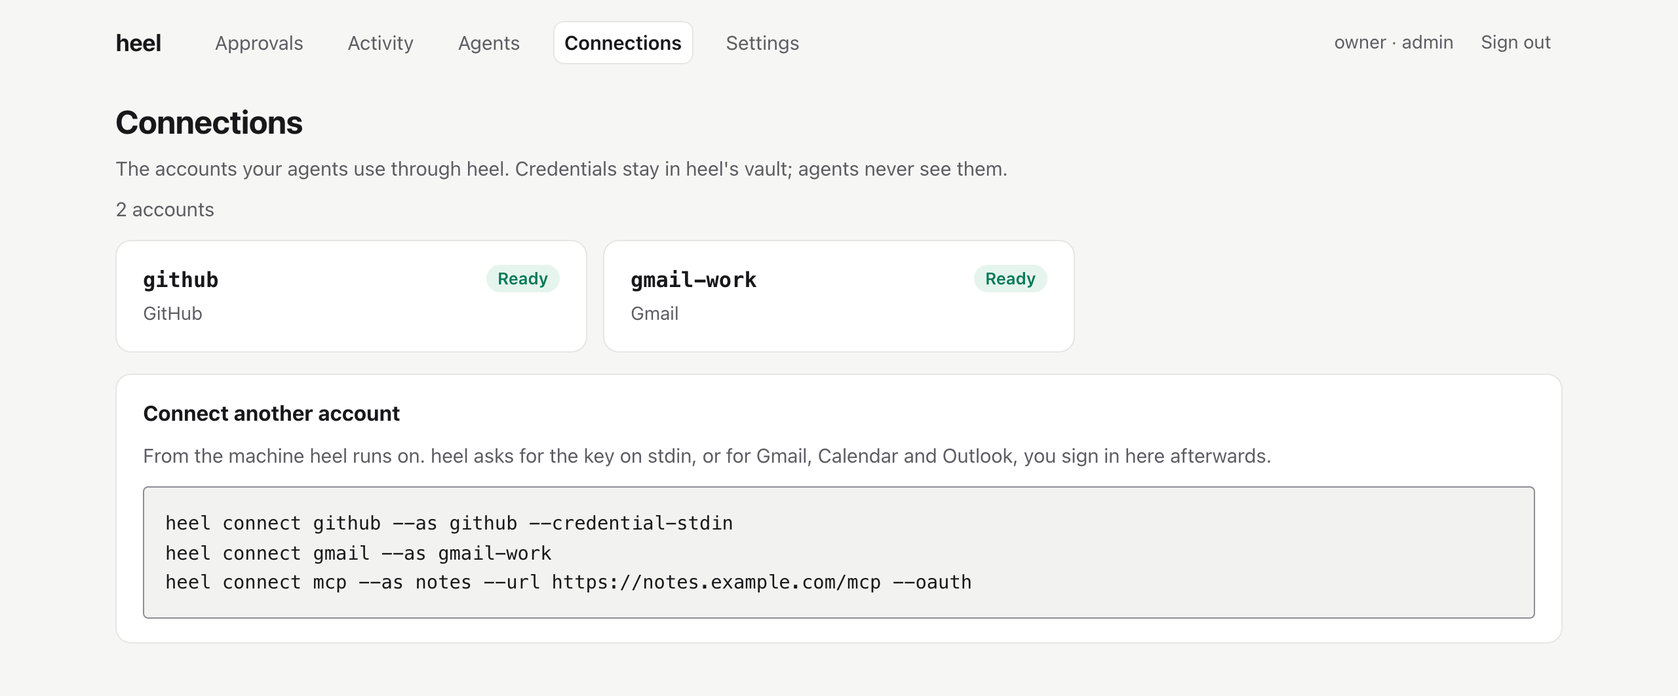
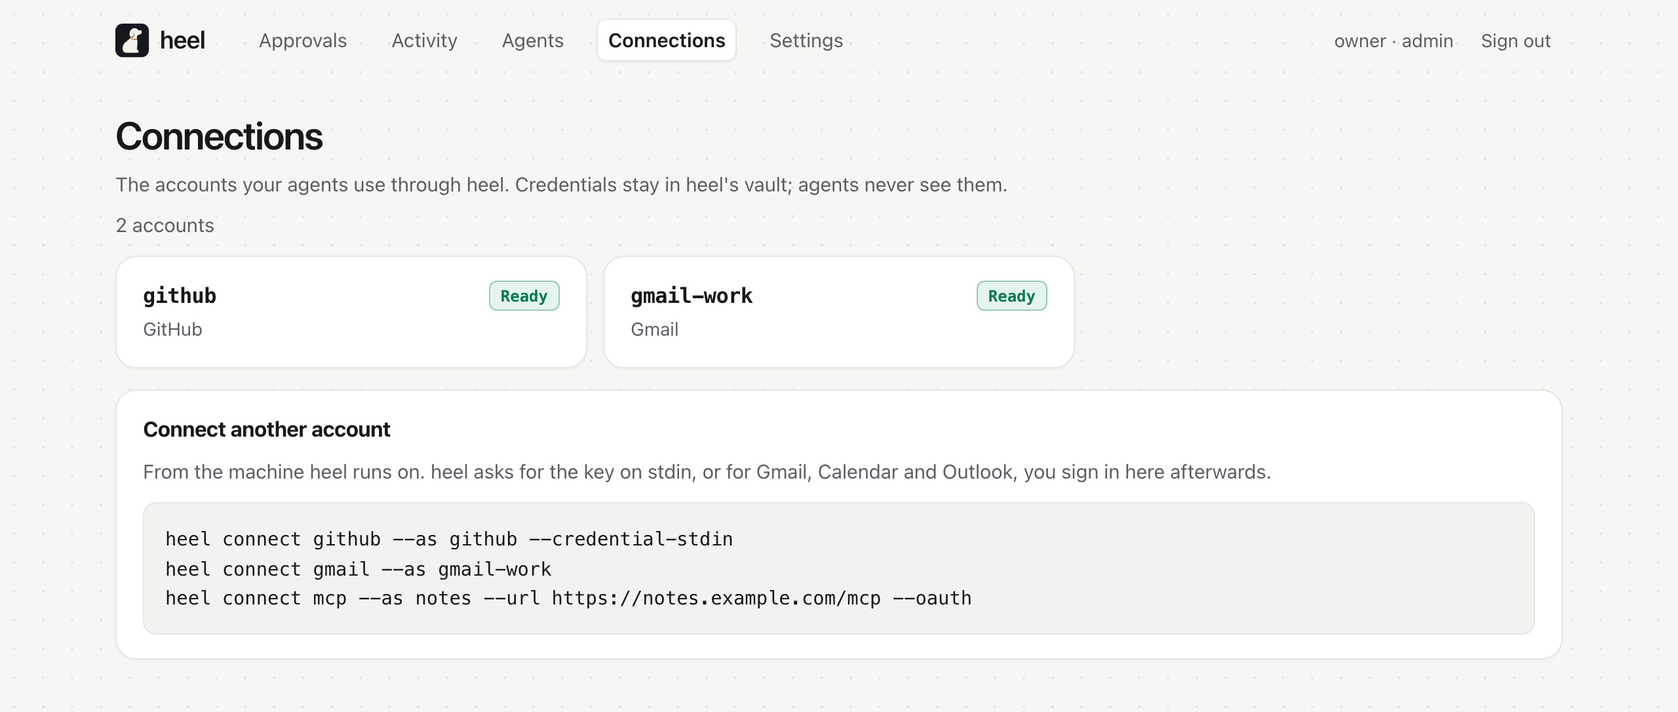
feat: heel's pages look like useheel.dev, and approve and deny never cover the page
Every page of the human plane takes the site's look: the dot grid behind
it, the logo beside the wordmark, pill buttons, status as tags in mono
with a tinted edge, softer cards and quieter dividers. Sign-in uses the
site's dog, written in the word heel, faint behind the wordmark.

The approve/deny bar was pinned to the bottom of the screen and sat on
top of the email or merge being decided. It's now part of the page,
right after what will run and before the details.

The docs screenshots are regenerated from the new pages, and the
README's approval image is two of them in phone frames, light and dark.

diff --git a/src/web/ui/theme.ts b/src/web/ui/theme.ts
@@ -36,6 +36,8 @@ const LIGHT = {
   "add-bg": "#e3f4e7",
   "remove-bg": "#fbe5e3",
   focus: "#0b57d0",
+  /** The dot grid behind every page, as on useheel.dev. */
+  dot: "rgb(0 0 0 / .07)",
 } as const;
 
 /** Every theme defines every colour the stylesheet uses. */
@@ -66,6 +68,7 @@ const DARK: Palette = {
   "add-bg": "#13321c",
   "remove-bg": "#3d1714",
   focus: "#ffd166",
+  dot: "rgb(255 255 255 / .06)",
 };
 
 function variables(palette: Palette): string {
@@ -77,18 +80,19 @@ function variables(palette: Palette): string {
 const RULES = `
 *,*::before,*::after{box-sizing:border-box}
 html{color-scheme:light dark}
-body{margin:0;background:var(--page);color:var(--text);font:15px/1.55 Inter,ui-sans-serif,system-ui,-apple-system,"Segoe UI",Roboto,sans-serif;-webkit-font-smoothing:antialiased}
+body{margin:0;background-color:var(--page);background-image:radial-gradient(circle,var(--dot) 1px,transparent 1px);background-size:22px 22px;color:var(--text);font:15px/1.55 Inter,ui-sans-serif,system-ui,-apple-system,"Segoe UI",Roboto,sans-serif;-webkit-font-smoothing:antialiased}
 a{color:var(--link);text-underline-offset:.2em}
 :focus-visible{outline:3px solid var(--focus);outline-offset:2px}
 .skip{position:absolute;left:-9999px;top:0;padding:.5rem 1rem;background:var(--bg)}
 .skip:focus{left:1rem;top:1rem;z-index:10}
-.site{display:flex;flex-wrap:wrap;gap:.75rem 2rem;align-items:center;max-width:72rem;margin:0 auto;padding:1rem 1.5rem .25rem}
-.site .brand{font-weight:700;font-size:1.1rem;letter-spacing:-.01em;color:var(--text);text-decoration:none}
+.site{display:flex;flex-wrap:wrap;gap:.75rem 2rem;align-items:center;max-width:72rem;margin:0 auto;padding:.9rem 1.5rem}
+.site .brand{display:inline-flex;align-items:center;gap:.5rem;font-weight:600;font-size:1.15rem;letter-spacing:-.02em;color:var(--text);text-decoration:none}
+.site .brand svg{width:1.6rem;height:1.6rem;flex:none}
 .site nav{max-width:100%}
 .site nav ul{display:flex;flex-wrap:wrap;gap:.25rem 1rem;list-style:none;margin:0;padding:0}
 .site nav a{text-decoration:none;padding:.3rem .55rem;border-radius:8px;white-space:nowrap;display:inline-block;color:var(--muted);font-size:.93rem}
 .site nav a:hover{color:var(--text);background:var(--surface)}
-.site nav a[aria-current="page"]{color:var(--text);font-weight:600;background:var(--bg);box-shadow:inset 0 0 0 1px var(--line)}
+.site nav a[aria-current="page"]{color:var(--text);font-weight:600;background:var(--bg);box-shadow:inset 0 0 0 1px var(--line),0 1px 2px rgb(0 0 0 / .05)}
 .site .account{margin-left:auto;display:flex;align-items:center;gap:.75rem}
 .site .who{color:var(--muted);font-size:.88rem}
 .site .sign-out{font:inherit;font-size:.88rem;color:var(--muted);background:none;border:0;padding:.3rem .55rem;border-radius:8px;cursor:pointer}
@@ -98,25 +102,25 @@ a{color:var(--link);text-underline-offset:.2em}
 .subnav a{display:inline-block;padding:.3rem .7rem;border-radius:7px;color:var(--muted);text-decoration:none;font-size:.9rem;white-space:nowrap}
 .subnav a[aria-current="page"]{background:var(--bg);color:var(--text);font-weight:600;box-shadow:0 1px 2px rgb(0 0 0 / .08)}
 main{max-width:72rem;margin:0 auto;padding:1.5rem}
-h1{font-size:1.55rem;line-height:1.3;letter-spacing:-.015em;margin:0 0 .5rem}
-h2{font-size:1.2rem;margin:1.5rem 0 .5rem}
+h1{font-size:1.85rem;line-height:1.2;letter-spacing:-.04em;font-weight:600;margin:0 0 .5rem}
+h2{font-size:1.2rem;letter-spacing:-.02em;margin:1.5rem 0 .5rem}
 h3{font-size:1rem;margin:1rem 0 .5rem}
 p{margin:.5rem 0}
 .muted{color:var(--muted)}
 .banner{padding:.7rem 1.5rem;background:var(--banner-bg);color:var(--banner-text);font-weight:600;text-align:center}
-.notice{border:1px solid var(--line);padding:.75rem 1rem;margin:1rem 0;background:var(--bg);border-radius:10px}
+.notice{border:1px solid var(--line);padding:.75rem 1rem;margin:1rem 0;background:var(--bg);border-radius:14px}
 .notice[data-tone="error"]{background:var(--danger-bg);border-color:transparent}
 .notice[data-tone="warn"]{background:var(--warn-bg);border-color:transparent}
 .notice[data-tone="ok"]{background:var(--ok-bg);border-color:transparent}
 .notice[data-tone="info"]{background:var(--info-bg);border-color:transparent}
 .notice > :first-child{margin-top:0}
 .notice > :last-child{margin-bottom:0}
-.card{border:1px solid var(--line);border-radius:12px;padding:1.1rem 1.25rem;margin:1rem 0;background:var(--bg)}
-.badge{display:inline-block;padding:.05rem .55rem;border-radius:999px;font-size:.8rem;font-weight:600;white-space:nowrap;background:var(--surface)}
-.badge[data-tone="ok"]{color:var(--ok);background:var(--ok-bg)}
-.badge[data-tone="error"]{color:var(--danger);background:var(--danger-bg)}
-.badge[data-tone="warn"]{color:var(--warn);background:var(--warn-bg)}
-.badge[data-tone="info"]{color:var(--info);background:var(--info-bg)}
+.card{border:1px solid var(--line);border-radius:16px;padding:1.1rem 1.25rem;margin:1rem 0;background:var(--bg);box-shadow:0 1px 2px rgb(0 0 0 / .04)}
+.badge{display:inline-block;padding:.1rem .5rem;border-radius:6px;border:1px solid var(--line);font:600 .75rem/1.5 ui-monospace,"Geist Mono",SFMono-Regular,Menlo,Consolas,monospace;white-space:nowrap;background:var(--surface)}
+.badge[data-tone="ok"]{color:var(--ok);background:var(--ok-bg);border-color:color-mix(in srgb,var(--ok) 35%,transparent)}
+.badge[data-tone="error"]{color:var(--danger);background:var(--danger-bg);border-color:color-mix(in srgb,var(--danger) 35%,transparent)}
+.badge[data-tone="warn"]{color:var(--warn);background:var(--warn-bg);border-color:color-mix(in srgb,var(--warn) 35%,transparent)}
+.badge[data-tone="info"]{color:var(--info);background:var(--info-bg);border-color:color-mix(in srgb,var(--info) 35%,transparent)}
 .badge[data-tone="muted"]{color:var(--muted)}
 dl.facts{display:grid;grid-template-columns:minmax(8rem,max-content) 1fr;gap:.35rem 1.5rem;margin:0}
 dl.facts dt{color:var(--muted);font-weight:600}
@@ -127,21 +131,21 @@ figure.reason blockquote{margin:.25rem 0 0;overflow-wrap:anywhere}
 ul.hints{list-style:none;padding:0;margin:.5rem 0 0;display:grid;gap:.45rem}
 ul.hints li{display:flex;align-items:baseline;gap:.6rem}
 pre{overflow-x:auto;max-width:100%}
-code,pre,.mono{font-family:ui-monospace,SFMono-Regular,Menlo,Consolas,monospace;font-size:.9rem}
-pre.args,pre.body{margin:0;padding:1rem;background:var(--surface);border:1px solid var(--border);border-radius:4px;white-space:pre-wrap;overflow-wrap:anywhere;word-break:break-word}
-.table-scroll{overflow-x:auto;max-width:100%;border:1px solid var(--line);border-radius:12px;margin:.75rem 0;background:linear-gradient(to right,var(--bg) 30%,transparent) left/2rem 100% no-repeat local,linear-gradient(to left,var(--bg) 30%,transparent) right/2rem 100% no-repeat local,radial-gradient(farthest-side at 0 50%,rgb(0 0 0 / .18),transparent) left/.75rem 100% no-repeat scroll,radial-gradient(farthest-side at 100% 50%,rgb(0 0 0 / .18),transparent) right/.75rem 100% no-repeat scroll}
+code,pre,.mono{font-family:ui-monospace,"Geist Mono",SFMono-Regular,Menlo,Consolas,monospace;font-size:.9rem}
+pre.args,pre.body{margin:0;padding:1rem;background:var(--surface);border:1px solid var(--line);border-radius:10px;white-space:pre-wrap;overflow-wrap:anywhere;word-break:break-word}
+.table-scroll{overflow-x:auto;max-width:100%;border:1px solid var(--line);border-radius:14px;margin:.75rem 0;background:linear-gradient(to right,var(--bg) 30%,transparent) left/2rem 100% no-repeat local,linear-gradient(to left,var(--bg) 30%,transparent) right/2rem 100% no-repeat local,radial-gradient(farthest-side at 0 50%,rgb(0 0 0 / .18),transparent) left/.75rem 100% no-repeat scroll,radial-gradient(farthest-side at 100% 50%,rgb(0 0 0 / .18),transparent) right/.75rem 100% no-repeat scroll}
 table.data{width:100%;border-collapse:collapse;margin:0;background:var(--bg)}
 table.data caption{text-align:left;font-weight:600;padding:.6rem .85rem;color:var(--muted);font-size:.85rem;background:var(--bg)}
 table.data th,table.data td{text-align:left;vertical-align:top;padding:.6rem .85rem;border-bottom:1px solid var(--line);overflow-wrap:break-word}
 table.data tbody tr:last-child > *{border-bottom:0}
 table.data thead th{border-bottom:1px solid var(--line);color:var(--muted);font-size:.8rem;font-weight:600;letter-spacing:.02em;background:var(--surface)}
-.btn{font:inherit;font-size:.93rem;font-weight:600;white-space:nowrap;padding:.5rem 1rem;border-radius:9px;border:1px solid var(--accent);cursor:pointer;min-height:2.5rem}
+.btn{font:inherit;font-size:.93rem;font-weight:600;white-space:nowrap;padding:.5rem 1.15rem;border-radius:999px;border:1px solid var(--accent);cursor:pointer;min-height:2.5rem}
 .btn-primary{background:var(--accent);color:var(--accent-text)}
-.btn-secondary{background:var(--bg);color:var(--text);border-color:var(--border)}
+.btn-secondary{background:var(--bg);color:var(--text);border-color:var(--border);box-shadow:0 1px 2px rgb(0 0 0 / .06)}
 .btn-danger{background:var(--bg);border-color:var(--danger);color:var(--danger)}
 .btn:disabled{cursor:not-allowed;opacity:.55}
 a.btn{display:inline-block;text-decoration:none}
-form.filters{display:flex;flex-wrap:wrap;gap:.5rem .75rem;align-items:center;margin:1rem 0;padding:.75rem;background:var(--bg);border:1px solid var(--line);border-radius:12px}
+form.filters{display:flex;flex-wrap:wrap;gap:.5rem .75rem;align-items:center;margin:1rem 0;padding:.75rem;background:var(--bg);border:1px solid var(--line);border-radius:16px}
 form.filters label{color:var(--muted);font-size:.88rem}
 .actions{display:flex;flex-wrap:wrap;gap:.75rem;align-items:center;margin:1rem 0}
 fieldset{border:1px solid var(--line);border-radius:10px;padding:.75rem 1rem;margin:1rem 0}
@@ -156,47 +160,45 @@ textarea{width:100%;min-height:5rem}
 .paste-form .btn{justify-self:start}
 .steps{padding-left:1.25rem}
 .steps > li{margin:0 0 1.25rem}
-.diff{margin:0;padding:0;list-style:none;border:1px solid var(--border);border-radius:4px;overflow:hidden}
+.diff{margin:0;padding:0;list-style:none;border:1px solid var(--line);border-radius:10px;overflow:hidden}
 .diff li{padding:0 .75rem;white-space:pre-wrap;overflow-wrap:anywhere;font-family:ui-monospace,SFMono-Regular,Menlo,Consolas,monospace;font-size:.9rem}
 .diff li[data-op="add"]{background:var(--add-bg)}
 .diff li[data-op="remove"]{background:var(--remove-bg)}
 .diff .sign{display:inline-block;width:1.25rem;font-weight:700}
-body:has(.ap){background:var(--page)}
 .ap{max-width:44rem;margin:0 auto}
-.ap .card{background:var(--bg);border-radius:12px;margin:.75rem 0}
-.ap-head{padding:1.1rem 1.25rem}
-.ap-meta{display:flex;flex-wrap:wrap;align-items:center;gap:.25rem .75rem;font-size:.9rem}
+.ap .card{background:var(--bg);border-radius:16px;margin:.75rem 0}
+.ap-head{padding:1.25rem 1.4rem;box-shadow:0 24px 60px -32px rgb(0 0 0 / .35)}
+.ap-meta{display:flex;flex-wrap:wrap;align-items:center;gap:.25rem .75rem;font-size:.9rem;color:var(--muted)}
 .ap-meta .badge{margin-left:auto}
-.ap-agent{font-weight:600}
-.ap-title{font-size:1.35rem;line-height:1.35;margin:.6rem 0 0;letter-spacing:-.01em;overflow-wrap:anywhere}
-.ap-title mark{background:var(--surface);color:inherit;border-radius:6px;padding:0 .3rem}
+.ap-agent{font-weight:600;color:var(--text)}
+.ap-title{font-size:1.45rem;line-height:1.35;margin:.7rem 0 0;letter-spacing:-.03em;font-weight:600;overflow-wrap:anywhere}
+.ap-title mark{background:var(--surface);color:inherit;border-radius:8px;padding:0 .35rem;box-shadow:inset 0 0 0 1px var(--line)}
 .ap .reason{margin:.9rem 0 0}
 .ap-facts{display:grid;grid-template-columns:repeat(auto-fit,minmax(9rem,1fr));gap:.5rem;list-style:none;margin:1rem 0 0;padding:0}
-.ap-fact{background:var(--surface);border-radius:8px;padding:.5rem .7rem;display:flex;flex-direction:column;min-width:0}
-.ap-fact span{color:var(--muted);font-size:.8rem}
+.ap-fact{background:var(--surface);border-radius:10px;padding:.55rem .75rem;display:flex;flex-direction:column;min-width:0}
+.ap-fact span{color:var(--muted);font:.72rem/1.6 ui-monospace,"Geist Mono",SFMono-Regular,Menlo,Consolas,monospace}
 .ap-fact strong{font-weight:600;font-size:.95rem;overflow-wrap:anywhere}
 .ap-card-head{display:flex;justify-content:space-between;align-items:baseline;gap:1rem;margin-bottom:.25rem}
 .ap-card-head h2{font-size:1rem;margin:0}
-.ap-card-head .muted{font-size:.85rem}
-.ap-row{display:grid;grid-template-columns:minmax(5.5rem,max-content) minmax(0,1fr);gap:.75rem;padding:.6rem 0;border-top:1px solid var(--border);align-items:start}
+.ap-card-head .muted{font:.75rem ui-monospace,"Geist Mono",SFMono-Regular,Menlo,Consolas,monospace}
+.ap-row{display:grid;grid-template-columns:minmax(5.5rem,max-content) minmax(0,1fr);gap:.75rem;padding:.6rem 0;border-top:1px solid var(--line);align-items:start}
 .ap-card-head + .ap-row{border-top:0}
 .ap-key{color:var(--muted);font-size:.9rem;overflow-wrap:anywhere}
 .ap-row pre.body{max-height:16rem;overflow:auto}
 .ap-domains,.ap-addresses{list-style:none;margin:0;padding:0;display:grid;gap:.35rem}
 .ap-addresses{margin-top:.4rem;font-size:.9rem}
-.ap-chip{display:inline-block;background:var(--surface);border-radius:6px;padding:0 .45rem;font-family:ui-monospace,SFMono-Regular,Menlo,Consolas,monospace;font-size:.9rem;overflow-wrap:anywhere}
+.ap-chip{display:inline-block;background:var(--surface);border-radius:6px;padding:0 .45rem;font-family:ui-monospace,"Geist Mono",SFMono-Regular,Menlo,Consolas,monospace;font-size:.9rem;overflow-wrap:anywhere}
 .ap-chip.is-outside{box-shadow:inset 0 0 0 1px var(--warn)}
 .ap-outside{color:var(--warn);font-size:.8rem;font-weight:600}
 .ap-fold summary,.ap-details summary,.ap-more summary{cursor:pointer}
-.ap-details details + details{border-top:1px solid var(--border);margin-top:.75rem;padding-top:.75rem}
+.ap-details details + details{border-top:1px solid var(--line);margin-top:.75rem;padding-top:.75rem}
 .ap-details summary{font-weight:600}
 .ap-details dl.facts{margin-top:.75rem}
 .ap-details pre.args{margin-top:.5rem}
-.ap-decide{position:sticky;bottom:0;margin:.75rem 0 1rem;padding:.75rem;background:var(--bg);border:1px solid var(--border);border-radius:12px;box-shadow:0 10px 30px -18px rgb(0 0 0 / .45)}
-.ap-decide:has(.ap-more[open]){position:static}
+.ap-decide{margin:.75rem 0;padding:.75rem;background:var(--bg);border:1px solid var(--line);border-radius:16px;box-shadow:0 1px 2px rgb(0 0 0 / .04)}
 .ap-bar{display:flex;flex-wrap:wrap;align-items:center;gap:.5rem .75rem}
 .ap-bar [data-heel-ceremony="deny"]{order:-1;background:transparent;color:var(--danger)}
-.ap .btn{border-radius:9px}
+.ap .btn{border-radius:999px}
 .ap-bar [data-heel-ceremony="approve-once"]{order:2}
 .ap-note{flex:1;margin:0;color:var(--muted);font-size:.85rem;text-align:center;min-width:10rem}
 .ap-more{margin-top:.5rem}
@@ -228,8 +230,8 @@ body:has(.ap){background:var(--page)}
 .req-title{font-size:1.1rem;line-height:1.4;margin:.5rem 0 0;font-weight:600;overflow-wrap:anywhere}
 .req-title a{color:var(--text);text-decoration:none}
 .req-title a:hover{text-decoration:underline}
-.req-title mark{background:var(--surface);color:inherit;border-radius:6px;padding:0 .3rem}
-.req[data-status="pending"]{border-color:var(--border)}
+.req-title mark{background:var(--surface);color:inherit;border-radius:8px;padding:0 .35rem;box-shadow:inset 0 0 0 1px var(--line)}
+.req[data-status="pending"]{border-color:var(--line)}
 .req-reason{margin:.5rem 0 0;padding-left:.75rem;border-left:2px solid var(--line)}
 .req-foot{margin:.6rem 0 0;font-size:.85rem}
 .req-count{margin:0}
@@ -271,13 +273,10 @@ body:has(.ap){background:var(--page)}
 @media (max-width:22rem){.site nav ul{margin:0 -.25rem}.site nav a{font-size:.78rem;padding:.35rem .25rem}}
 .story{border-top:4px solid var(--border);margin-top:2rem;padding-top:1rem}
 .visually-hidden{position:absolute;width:1px;height:1px;margin:-1px;padding:0;overflow:hidden;clip:rect(0 0 0 0);white-space:nowrap;border:0}
-body:has(.auth){background-color:var(--page);background-image:radial-gradient(circle,rgb(0 0 0 / .07) 1px,transparent 1px);background-size:22px 22px}
-:root[data-theme="dark"] body:has(.auth){background-image:radial-gradient(circle,rgb(255 255 255 / .06) 1px,transparent 1px)}
-@media (prefers-color-scheme: dark){:root:not([data-theme="light"]) body:has(.auth){background-image:radial-gradient(circle,rgb(255 255 255 / .06) 1px,transparent 1px)}}
 main:has(.auth){max-width:none;padding:0}
-.auth{position:relative;max-width:1100px;margin:0 auto;padding:4rem 1.25rem 3rem;display:flex;flex-direction:column;align-items:center;text-align:center;min-height:100vh}
-.auth-dog{margin:0;text-align:left;font-size:.75rem;line-height:1.25;color:var(--muted);white-space:pre;overflow:visible;background:none;border:0;padding:0}
-.auth-word{margin:1rem 0 0;font-size:clamp(3.5rem,11vw,5.5rem);line-height:1;font-weight:600;letter-spacing:-.06em}
+.auth{position:relative;isolation:isolate;max-width:1100px;margin:0 auto;padding:6rem 1.25rem 3rem;display:flex;flex-direction:column;align-items:center;text-align:center;min-height:100vh}
+.auth-dog{position:absolute;top:2rem;left:50%;z-index:-1;transform:translateX(calc(-50% - 2.6ch + 2px));margin:0;text-align:left;font-size:13px;line-height:1;color:color-mix(in srgb,var(--text) 7%,transparent);white-space:pre;overflow:visible;background:none;border:0;padding:0;pointer-events:none;user-select:none;-webkit-mask-image:linear-gradient(to bottom,#000 40%,transparent 75%);mask-image:linear-gradient(to bottom,#000 40%,transparent 75%)}
+.auth-word{margin:0;font-size:clamp(3.5rem,11vw,5.5rem);line-height:1;font-weight:600;letter-spacing:-.06em}
 .auth-tag{margin:.6rem 0 2rem;font-size:1.1rem;color:var(--muted)}
 .auth-foot{margin:1.25rem 0 0;font-size:.78rem;color:var(--muted)}
 .sticker{position:absolute;display:none;border:1px solid;border-radius:6px;padding:.2rem .6rem;font:500 .75rem ui-monospace,SFMono-Regular,Menlo,monospace;box-shadow:0 1px 2px rgb(0 0 0 / .06)}
@@ -290,7 +289,7 @@ main:has(.auth){max-width:none;padding:0}
 .signin .actions{margin:1.25rem 0}
 .signin .actions .btn{width:100%;justify-content:center;text-align:center;min-height:2.85rem;border-radius:999px}
 .signin > p.muted{font-size:.88rem}
-@media (max-width:36rem){.auth{padding-top:2.5rem}.signin{padding:1.4rem 1.25rem;border-radius:14px}}
+@media (max-width:36rem){.auth{padding-top:4.5rem}.auth-dog{font-size:9px}.signin{padding:1.4rem 1.25rem;border-radius:14px}}
 [role="status"]:empty{display:none}
 #heel-ceremony-status:not(:empty){position:fixed;left:1rem;right:1rem;bottom:1rem;max-width:56rem;margin:0 auto;z-index:20;padding:.75rem 1rem;background:var(--bg);color:var(--text);border:1px solid var(--line);border-radius:12px;box-shadow:0 10px 30px -12px rgb(0 0 0 / .35);overflow-wrap:anywhere}
 body:has(#heel-ceremony-status:not(:empty)) main{padding-bottom:10rem}

diff --git a/src/web/ui/logo.ts b/src/web/ui/logo.ts
@@ -1,0 +1,5 @@
+/**
+ * heel's logo, the dog sitting at heel (assets/logo/heel-icon.svg), inlined so
+ * the header needs no extra request. Decorative: the link beside it says heel.
+ */
+export const LOGO_SVG = `<svg xmlns="http://www.w3.org/2000/svg" viewBox="0 0 2048 2048" aria-hidden="true" focusable="false"><rect width="2048" height="2048" rx="448" fill="#16181D"/><g transform="translate(184 184) scale(0.82)"><g transform="translate(0 2048) scale(0.1 -0.1)"><path fill="#F4F1EA" d="M11715 19330 c-49 -4 -117 -13 -150 -19 -33 -6 -94 -15 -135 -21 -113 -16 -289 -59 -465 -115 -27 -9 -75 -23 -105 -31 -30 -9 -60 -20 -66 -25 -6 -5 -36 -18 -66 -28 -30 -10 -63 -23 -74 -29 -10 -6 -59 -30 -107 -54 -48 -24 -105 -52 -125 -63 -122 -66 -184 -103 -238 -139 -16 -11 -53 -36 -83 -55 -207 -139 -307 -224 -522 -441 -108 -109 -331 -366 -379 -436 -131 -190 -220 -339 -324 -544 -20 -41 -44 -86 -52 -100 -7 -14 -27 -56 -44 -95 -17 -38 -38 -83 -45 -100 -30 -64 -110 -290 -150 -420 -15 -49 -36 -115 -46 -145 -9 -30 -20 -71 -24 -90 -3 -19 -15 -62 -25 -95 -10 -33 -22 -80 -26 -105 -3 -25 -13 -63 -21 -85 -8 -22 -21 -86 -29 -143 -8 -56 -19 -124 -25 -150 -6 -26 -19 -121 -30 -212 -10 -91 -24 -210 -31 -265 -16 -130 -16 -839 0 -950 47 -331 52 -356 122 -565 94 -283 172 -424 327 -586 139 -145 393 -317 538 -364 22 -7 45 -16 51 -21 5 -5 37 -15 70 -22 32 -8 84 -22 114 -30 81 -24 326 -49 475 -50 230 -1 493 58 650 145 11 7 34 18 50 26 17 9 42 25 57 36 14 12 46 35 69 51 233 164 438 469 515 765 8 30 21 79 30 109 40 135 70 585 55 811 -24 353 -41 537 -55 595 -8 33 -17 92 -21 130 -4 39 -18 122 -31 185 -13 63 -24 127 -24 141 0 14 -9 61 -19 105 -10 43 -33 142 -51 219 -71 309 -91 391 -101 415 -10 23 -35 144 -45 215 -4 27 -3 28 8 11 51 -73 68 -103 68 -117 0 -9 11 -36 23 -60 13 -24 27 -57 31 -74 4 -16 14 -43 21 -60 16 -35 91 -251 141 -410 20 -60 44 -133 55 -161 11 -28 26 -75 34 -105 8 -30 26 -92 41 -139 15 -47 33 -112 41 -145 91 -373 102 -423 114 -510 5 -44 16 -116 24 -160 32 -184 46 -676 25 -885 -24 -235 -125 -546 -243 -740 -49 -82 -123 -189 -164 -237 -68 -80 -270 -243 -348 -283 -22 -11 -47 -24 -55 -30 -26 -17 -146 -70 -159 -70 -7 0 -26 -7 -43 -16 -80 -42 -296 -86 -488 -100 -101 -7 -431 20 -507 41 -29 9 -76 20 -105 25 -29 6 -75 19 -103 30 -27 10 -70 25 -95 34 -179 59 -317 130 -444 228 -62 49 -68 44 -96 -80 -12 -53 -28 -118 -36 -143 -23 -71 -4 -98 116 -169 19 -11 55 -34 80 -50 25 -15 98 -56 163 -89 65 -34 153 -81 195 -105 86 -48 225 -116 352 -171 47 -20 103 -46 126 -56 22 -10 44 -19 48 -19 4 0 40 -14 79 -30 40 -17 93 -40 120 -50 26 -11 68 -29 95 -40 215 -88 740 -247 1112 -337 225 -54 527 -109 723 -133 48 -6 110 -15 137 -20 156 -30 747 -65 942 -57 580 25 743 40 759 70 11 20 6 78 -17 191 -8 38 -21 139 -29 225 -8 86 -20 183 -25 216 -20 121 -32 532 -22 725 10 173 52 482 71 519 5 9 14 41 21 71 6 30 25 93 41 140 126 372 312 616 619 814 25 16 56 37 70 46 32 21 225 115 282 136 205 77 500 156 713 189 54 9 231 51 335 80 47 13 94 26 105 29 224 61 514 224 689 388 135 126 233 252 328 423 37 67 138 276 138 287 0 6 9 31 20 54 58 120 121 403 146 664 55 573 -83 1004 -367 1148 -135 68 -215 80 -649 92 -341 10 -777 31 -1020 50 -378 29 -577 148 -860 511 -108 138 -353 383 -475 473 -131 96 -218 156 -230 156 -5 0 -16 6 -24 14 -9 8 -68 40 -132 73 -331 166 -622 263 -929 308 -58 9 -123 20 -145 26 -50 13 -706 20 -830 9z"/><path fill="#F4F1EA" d="M8590 11888 c-16 -22 -30 -46 -30 -52 -1 -43 -297 -428 -465 -605 -235 -247 -337 -343 -640 -601 -205 -175 -681 -542 -1034 -799 -217 -158 -719 -566 -911 -740 -185 -168 -212 -194 -343 -321 -223 -216 -666 -714 -782 -879 -16 -23 -48 -66 -71 -94 -22 -29 -49 -66 -60 -84 -17 -29 -172 -262 -214 -323 -15 -22 -74 -124 -120 -208 -8 -15 -25 -43 -36 -62 -50 -82 -146 -268 -198 -385 -15 -33 -36 -77 -47 -97 -10 -20 -19 -43 -19 -49 0 -7 -9 -31 -19 -53 -34 -72 -117 -283 -146 -371 -70 -212 -123 -410 -170 -630 -9 -44 -25 -121 -36 -170 -11 -50 -24 -131 -29 -180 -6 -50 -17 -140 -25 -201 -46 -357 -42 -917 10 -1349 61 -506 191 -933 402 -1326 10 -19 46 -72 78 -118 33 -46 67 -93 75 -105 38 -56 195 -237 251 -292 105 -100 264 -225 366 -290 149 -93 496 -264 538 -264 9 0 30 -8 48 -17 32 -17 90 -35 252 -80 204 -56 395 -89 660 -113 210 -18 342 -19 2925 -24 1488 -3 3277 -8 3975 -12 1302 -7 1388 -5 1555 31 106 23 260 74 292 96 14 11 29 19 32 19 18 0 140 93 198 151 166 165 247 383 248 664 0 251 -61 442 -221 681 -80 121 -251 287 -403 389 -16 11 -59 40 -96 65 -116 77 -123 83 -196 142 -109 89 -204 217 -247 333 -90 240 -117 565 -78 910 5 39 16 144 25 235 9 91 24 212 32 270 8 58 21 164 29 235 9 72 20 155 25 185 5 30 16 127 25 214 9 88 20 179 26 203 5 24 16 106 24 181 8 75 21 184 29 242 8 58 18 148 21 200 4 52 13 137 21 188 8 52 21 184 29 295 8 111 19 238 25 282 14 116 28 387 41 810 16 493 -7 1316 -41 1513 -5 30 -17 129 -25 220 -9 92 -20 186 -25 208 -5 23 -17 102 -25 175 -9 74 -20 150 -25 169 -5 19 -16 87 -24 150 -28 217 -49 271 -99 255 -12 -4 -65 -10 -117 -15 -52 -5 -151 -17 -220 -27 -200 -29 -987 -26 -1265 5 -537 60 -1037 154 -1445 272 -58 16 -127 35 -155 41 -27 6 -84 22 -125 35 -41 13 -124 40 -185 59 -60 18 -141 45 -180 59 -65 23 -98 35 -255 101 -33 14 -86 36 -117 49 -32 13 -92 38 -133 56 -41 17 -89 36 -106 41 -30 9 -492 240 -594 297 -30 17 -73 40 -95 51 -22 12 -78 45 -125 75 -47 31 -98 63 -115 72 -16 9 -36 25 -43 35 -21 30 -49 22 -82 -23z"/><path fill="#F2A33A" d="M8792 12362 c-18 -43 -32 -82 -32 -87 0 -5 -9 -27 -19 -49 -30 -65 -78 -179 -86 -206 -4 -14 -14 -34 -21 -45 -18 -25 -18 -35 -1 -35 8 0 22 -9 33 -21 21 -24 108 -81 211 -141 21 -12 56 -32 78 -45 22 -13 58 -33 80 -44 22 -12 66 -35 98 -53 151 -82 508 -256 525 -256 6 0 32 -11 58 -25 26 -14 52 -25 58 -25 6 0 33 -11 60 -25 27 -14 56 -25 64 -25 7 0 26 -7 40 -15 27 -14 115 -51 207 -85 28 -10 82 -31 120 -45 83 -31 207 -71 286 -91 31 -7 76 -23 100 -34 24 -11 53 -20 64 -20 11 0 56 -11 100 -24 73 -22 184 -52 340 -91 104 -26 287 -66 375 -81 47 -8 132 -23 190 -34 150 -27 362 -57 535 -75 83 -9 193 -21 245 -27 57 -7 265 -12 525 -12 388 -1 446 1 590 21 88 12 192 25 230 28 126 12 145 20 145 62 0 35 -33 223 -72 401 -18 87 -21 93 -41 88 -12 -4 -137 -14 -277 -23 -474 -30 -1088 -18 -1370 27 -63 10 -142 21 -175 25 -171 16 -678 116 -840 165 -33 10 -76 21 -95 25 -19 3 -73 17 -120 31 -47 14 -125 36 -175 51 -49 14 -144 43 -210 65 -66 21 -142 45 -170 53 -61 16 -181 60 -215 79 -14 8 -41 19 -60 24 -19 6 -66 24 -105 40 -186 79 -222 94 -248 102 -15 5 -43 18 -61 29 -18 12 -39 21 -46 21 -12 0 -195 90 -305 149 -27 15 -108 58 -180 95 -71 37 -174 96 -228 129 -54 34 -107 67 -119 73 -11 7 -25 17 -31 23 -18 18 -22 14 -55 -67z"/></g></g></svg>`;

diff --git a/src/web/ui/layout.ts b/src/web/ui/layout.ts
@@ -2,6 +2,7 @@ import type { PauseScope } from "../../core/call.ts";
 import { CEREMONY_SCRIPT } from "./ceremony.ts";
 import { formatPauseScope, formatUtc } from "./format.ts";
 import { type Child, type Html, html, trusted } from "./html.ts";
+import { LOGO_SVG } from "./logo.ts";
 import { STYLESHEET } from "./theme.ts";
 
 /** The signed-in person, shown in the header. Sign-in screens have none. */
@@ -130,7 +131,7 @@ function header(viewer: Viewer, current: NavId | undefined): Html {
     </li>`;
   });
   return html`<header class="site">
-    <a class="brand" href="/approvals">heel</a>
+    <a class="brand" href="/approvals">${trusted(LOGO_SVG)}heel</a>
     <nav aria-label="Main"><ul>${links}</ul></nav>
     <div class="account">
       <span class="who">${viewer.name} · ${viewer.role}</span>
@@ -157,12 +158,41 @@ function sectionTabs(current: NavId | undefined): Html | "" {
   </ul></nav>`;
 }
 
-/** A dog sitting at heel: the same drawing as useheel.dev's home page. */
-const DOG = String.raw`   / \__
-  (    @\___
-  /         O
- /   (_____/
-/_____/   U`;
+/** heel's logo dog written in the word heel: the same drawing as behind useheel.dev's wordmark. */
+const DOG = `                          :+heelheelh*-
+                       .+eelheelheelheel+
+                      +heelheelheelheelhee=.
+                     lheelheelheelheelheelheelheelh-
+                    eelheelheelheelheelheelheelheelh
+                   =eelheelhe*elheelheelheelheelheel
+                   heelheelhe**elheelheelheelheelhe=
+                   elheelheelh:eelheelheelheelheel=
+                  .heelheelhee:*lheelheelheelhe+-
+                   elheelheelh.=eelheelhe+:
+                   -elheelheel heelheelh
+                    :*eelhee= +lheelhee.
+                     *==--::=lheelheelh
+                    +eelheelheelheelhee
+                  :lheel**heelheelheelh.
+                .*eelheelheelhe*******e:
+              -lheelheelheelheelheelheel
+           .+heelheelheelheelheelheelhee
+         -lheelheelheelheelheelheelheelh:
+       =eelheelheelheelheelheelheelheelh-
+     -eelheelheelheelheelheelheelheelhee=
+    lheelheelheelheelheelheelheelheelhee-
+  :lheelheelheelheelheelheelheelheelheel:
+ .heelheelheelheelheelheelheelheelheelhe
+ elheelheelheelheelheelheelheelheelheelh
++eelheelheelheelheelheelheelheelheelhee*
+lheelheelheelheelheelheelheelheelheelhe-
+elheelheelheelheelheelheelheelheelheelh.
+eelheelheelheelheelheelheelheelheelheel
+heelheelheelheelheelheelheelheelheelhee*
+:lheelheelheelheelheelheelheelheelheelhee*.
+ =lheelheelheelheelheelheelheelheelheelheel-
+  .*heelheelheelheelheelheelheelheelheelhee*
+     -*lheelheelheelheelheelheelheelheelhe*`;
 
 /**
  * Sign-in, enrollment and consent: heel's brand as on useheel.dev, the dog,
@@ -173,7 +203,7 @@ function authShell(body: Html): Html {
     <span class="sticker sticker-allow" aria-hidden="true">allow</span>
     <span class="sticker sticker-deny" aria-hidden="true">deny</span>
     <span class="sticker sticker-ask" aria-hidden="true">ask</span>
-    <pre class="auth-dog" aria-label="a dog sitting at heel">${DOG}</pre>
+    <pre class="auth-dog" aria-hidden="true">${DOG}</pre>
     <p class="auth-word">heel</p>
     <p class="auth-tag">access control for your ai agents</p>
     ${body}

diff --git a/test/web/phone-layout.test.ts b/test/web/phone-layout.test.ts
@@ -32,11 +32,11 @@ describe("pages at phone width", () => {
     }
   });
 
-  it("wraps the navigation, scrolls preformatted text, and lets an open decision bar scroll away", () => {
+  it("wraps the navigation, scrolls preformatted text, and keeps the decision bar in the page, never over it", () => {
     expect(STYLESHEET).toContain(".site nav ul{display:flex;flex-wrap:wrap;");
     expect(STYLESHEET).not.toMatch(/\.site nav\{[^}]*overflow-x/);
     expect(STYLESHEET).toContain("pre{overflow-x:auto;max-width:100%}");
-    expect(STYLESHEET).toContain(".ap-decide:has(.ap-more[open]){position:static}");
+    expect(STYLESHEET).not.toMatch(/\.ap-decide\{[^}]*position:(sticky|fixed)/);
   });
 });
 

diff --git a/src/web/ui/approval-request.ts b/src/web/ui/approval-request.ts
@@ -625,6 +625,7 @@ export function approvalRequest(props: ApprovalRequestProps): Html {
     ${statusNotice(request, props.now)}
     ${view}
     ${hintsView(request)}
+    ${decisionControls(request, props.pause, props.onDecide)}
     <section class="card ap-card ap-details" aria-label="Details">
       ${fold(
         folds,
@@ -670,6 +671,5 @@ export function approvalRequest(props: ApprovalRequestProps): Html {
         "",
       )}
     </section>
-    ${decisionControls(request, props.pause, props.onDecide)}
   </article>`;
 }

diff --git a/README.md b/README.md
@@ -33,7 +33,12 @@ Then create your passkey, connect GitHub and point your agent at heel: the **[Qu
 
 When a rule says `ask`, you see exactly what the call will do, in plain words, and decide with your passkey, on your phone if you like:
 
-<p align="center"><img src="docs/images/approval-email.png" alt="An email waiting for approval on a phone" width="320"></p>
+<p align="center">
+  <picture>
+    <source media="(prefers-color-scheme: dark)" srcset="assets/readme/approvals-dark.png">
+    <img src="assets/readme/approvals-light.png" alt="Two approval pages on a phone: an email to someone outside the company, and a merge into main, each waiting for you" width="100%">
+  </picture>
+</p>
 
 ## What a rule looks like
 
